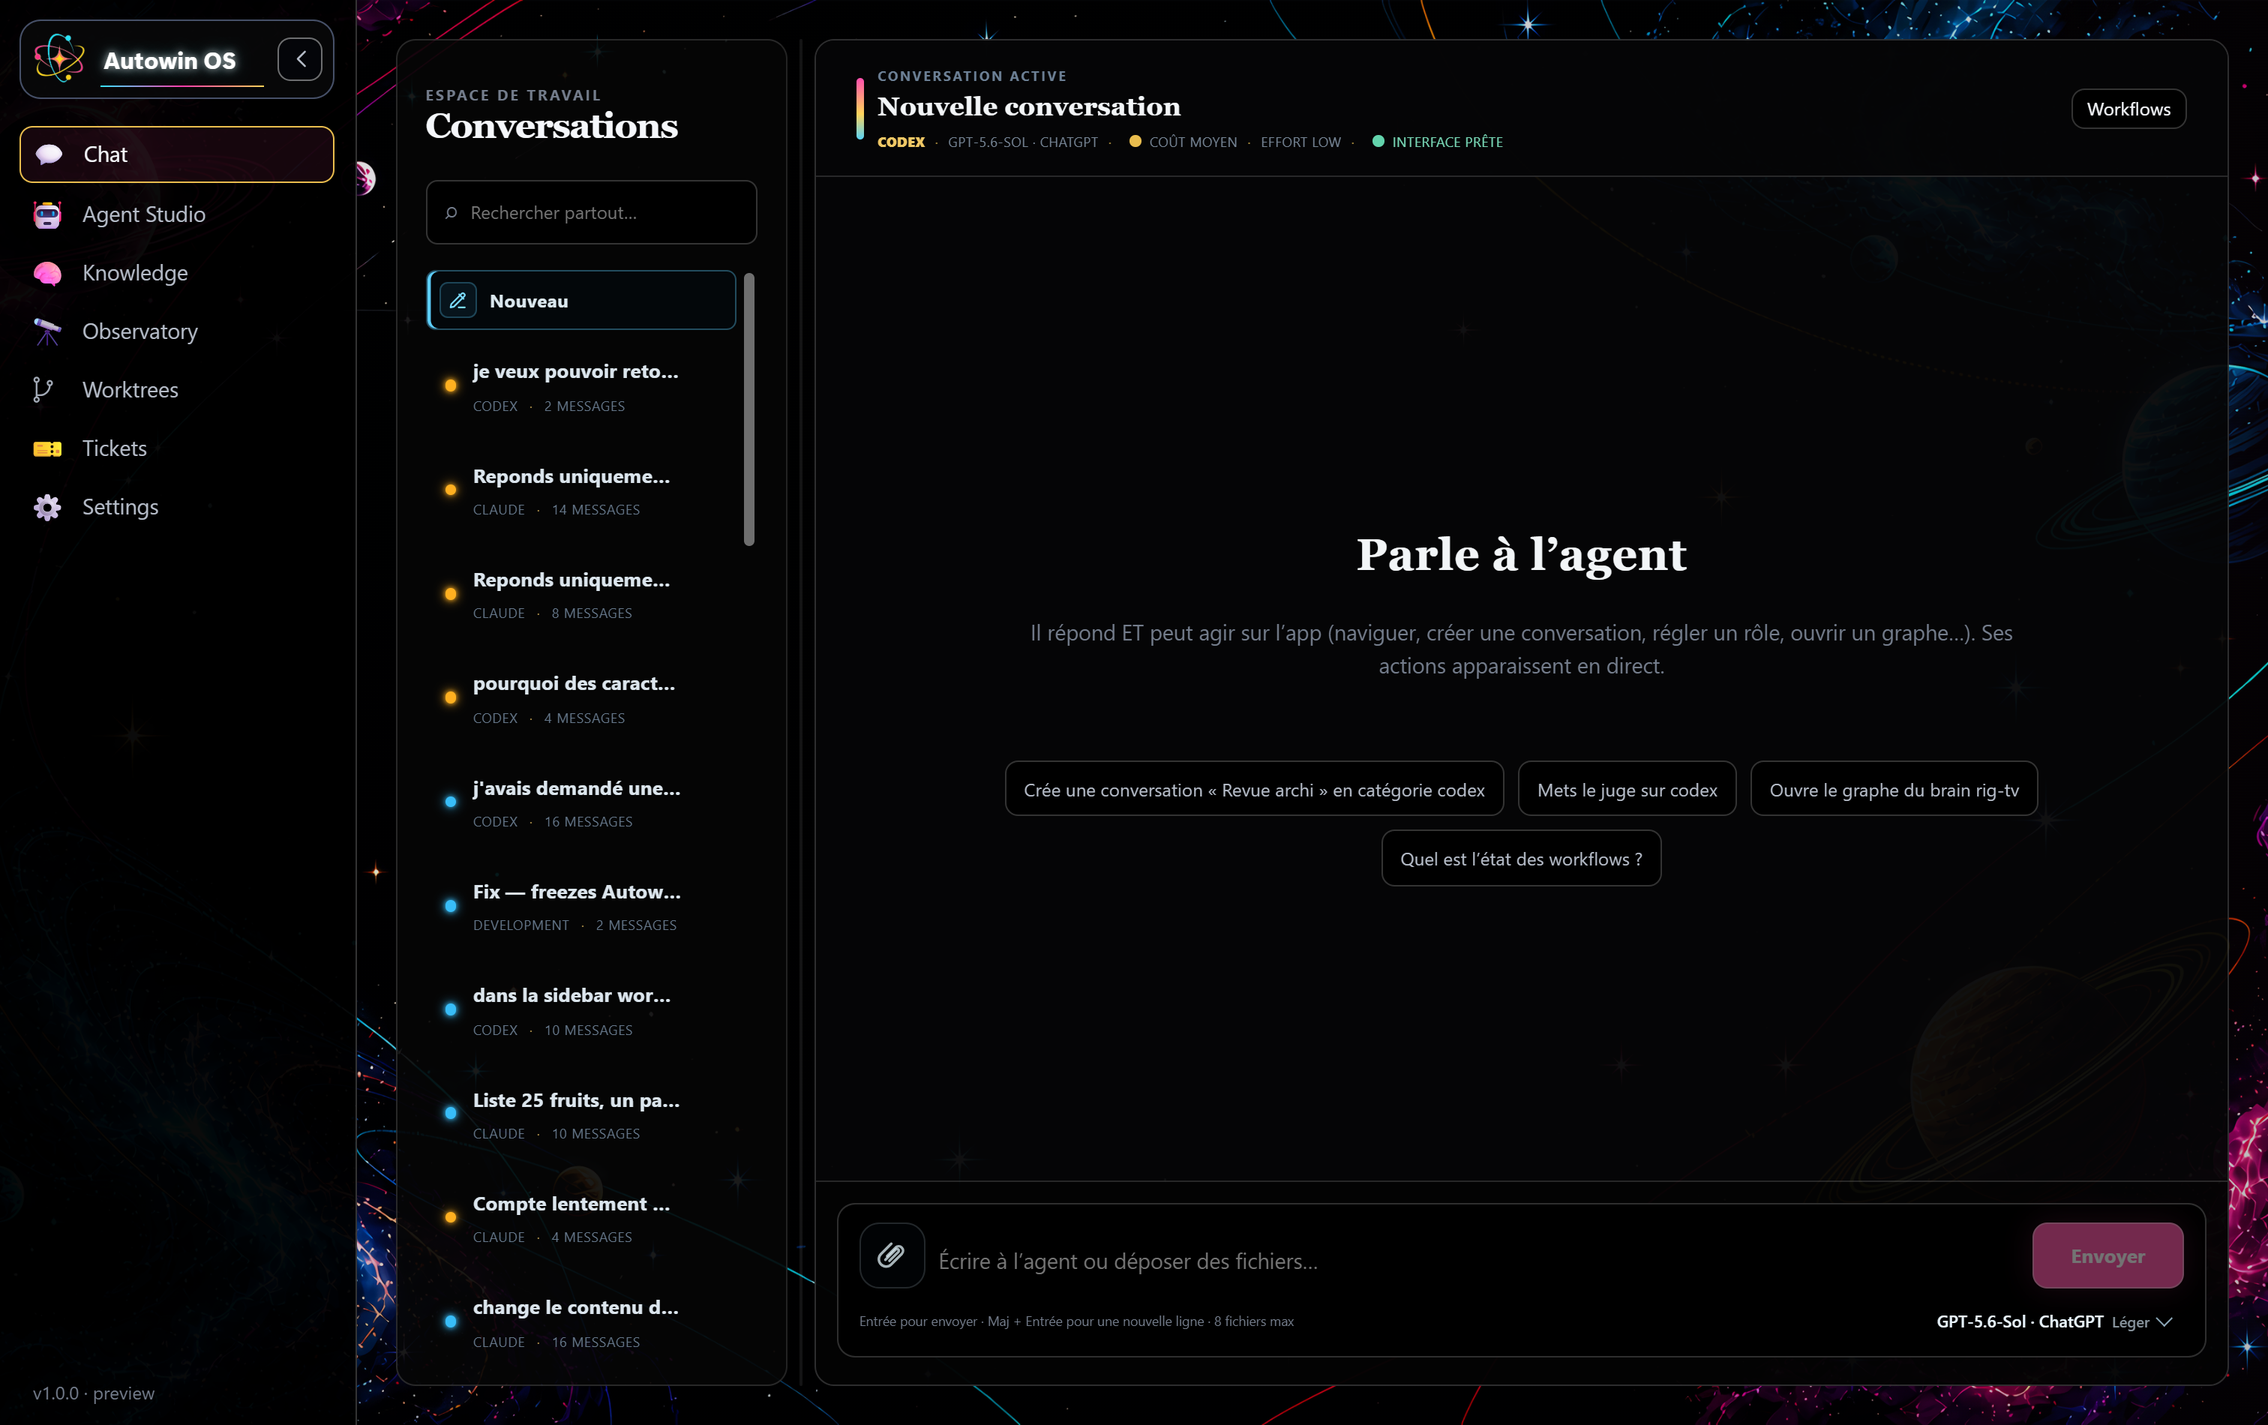
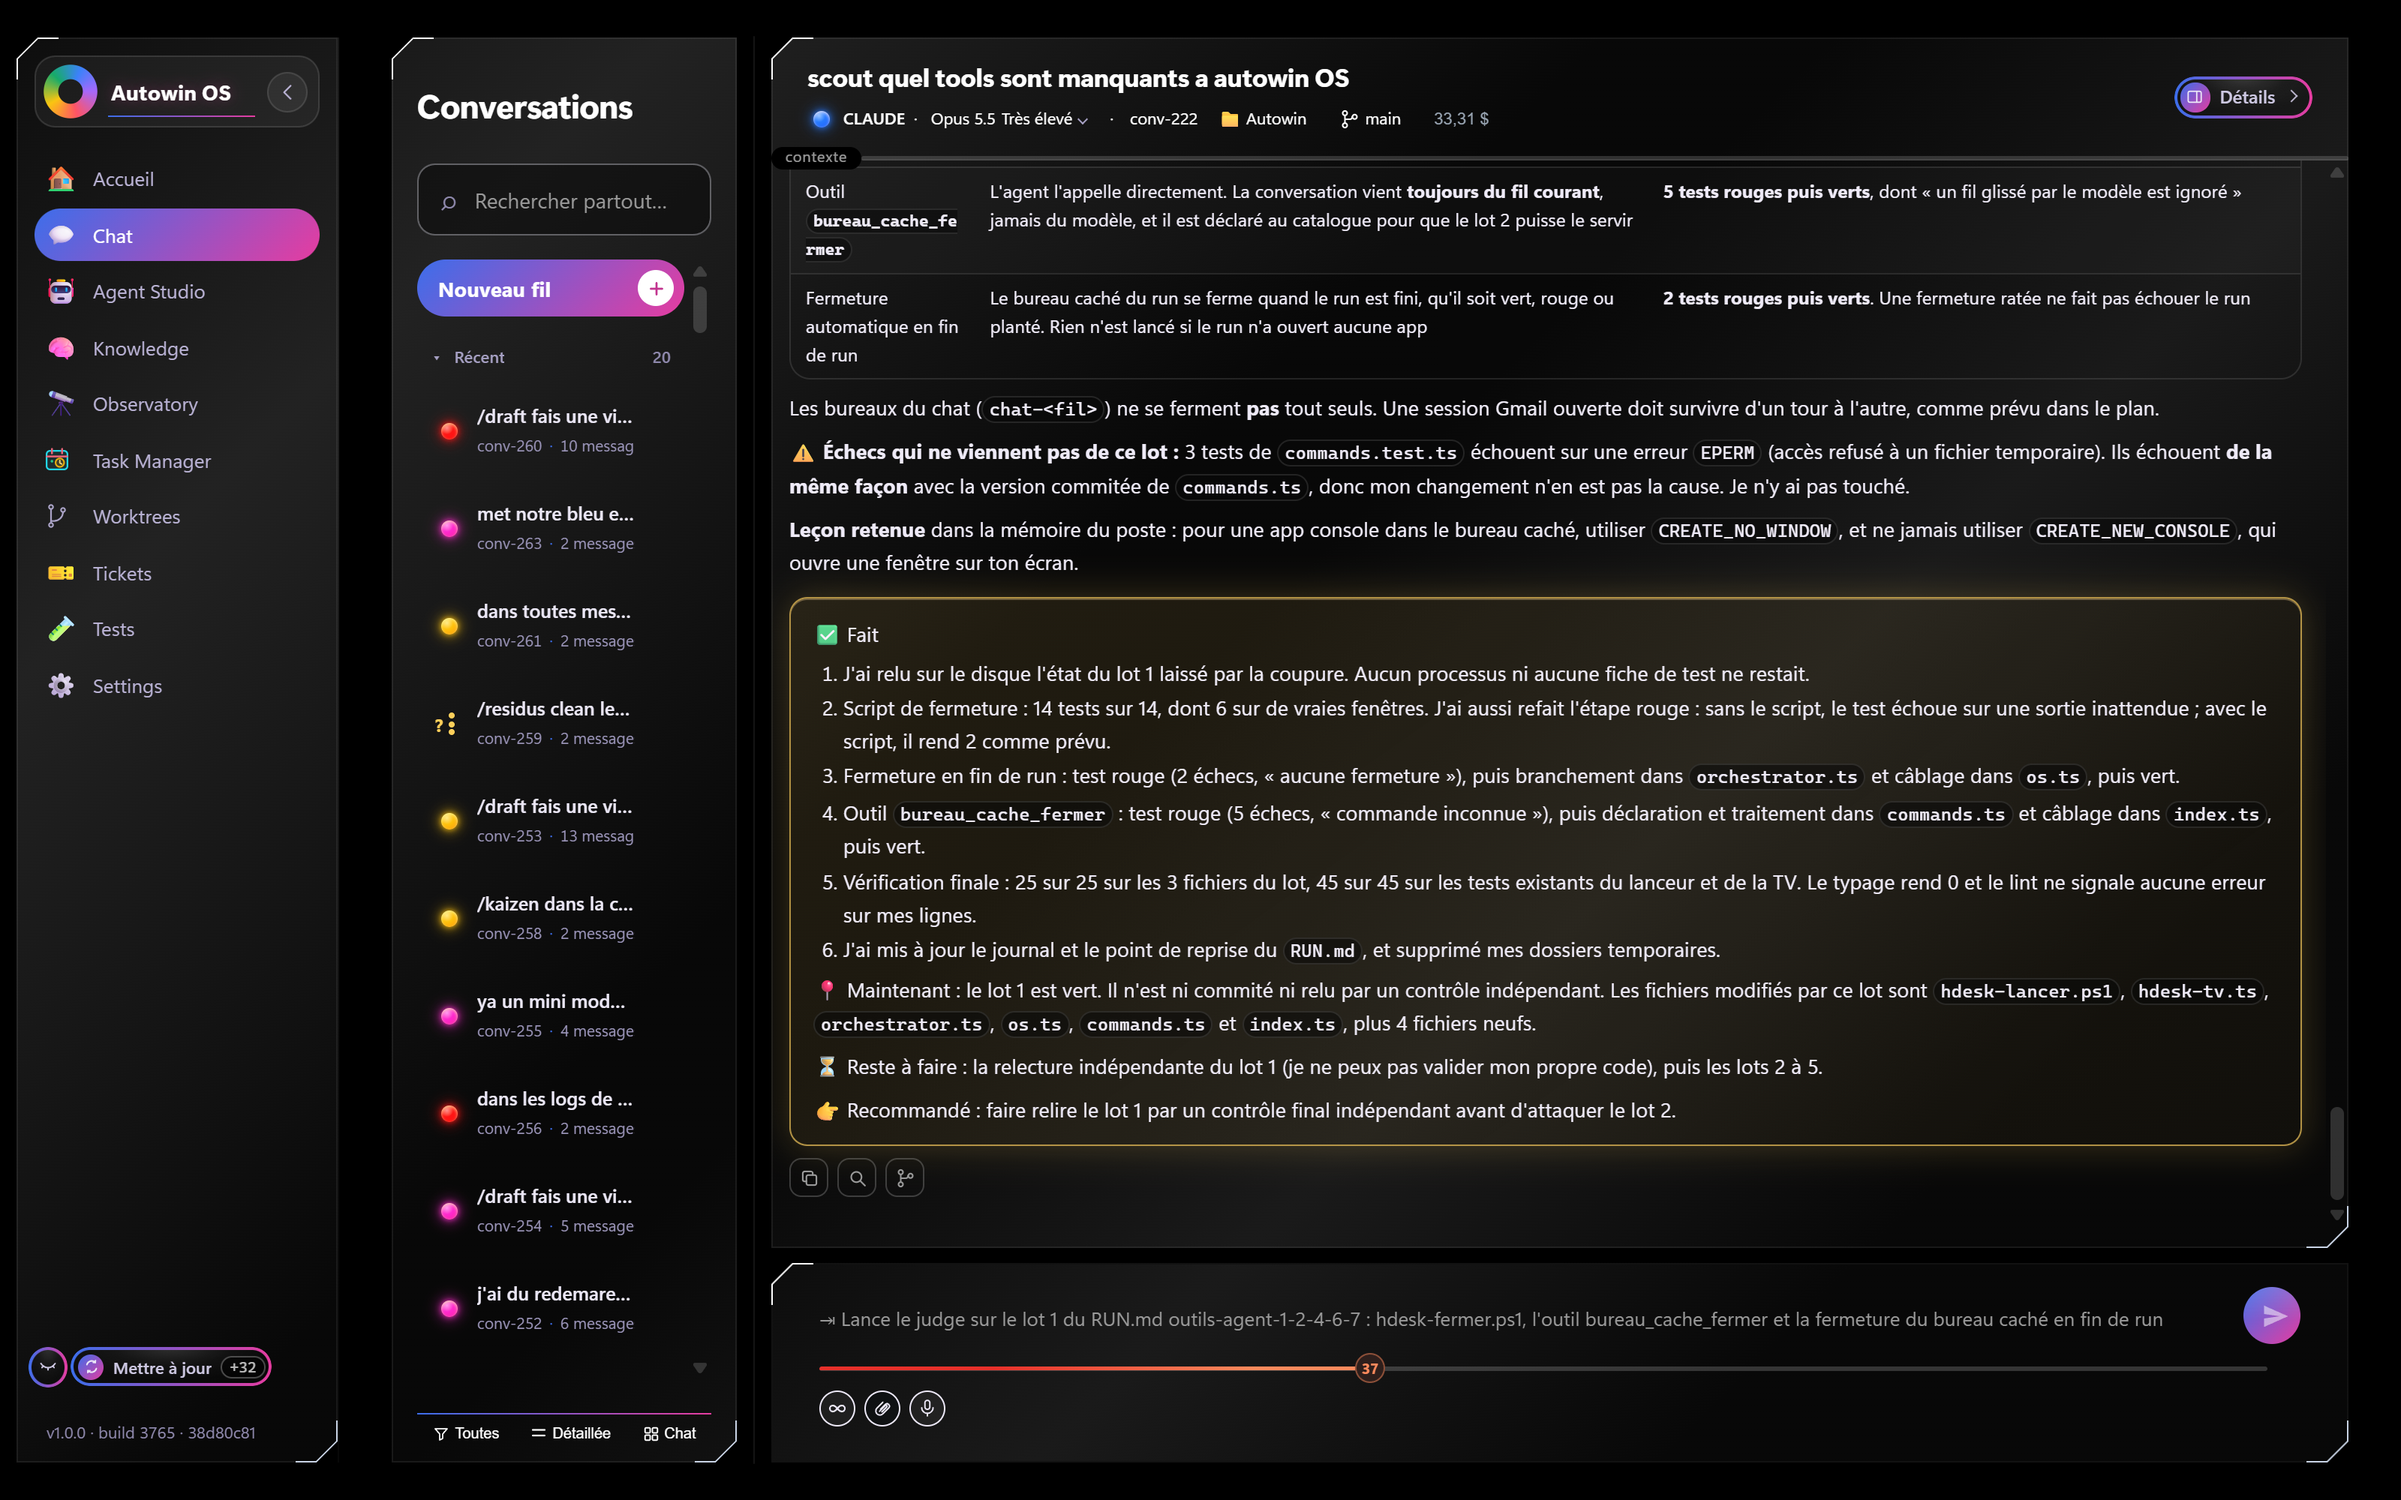
docs(readme): captures Chat, Observatory et Settings en thème Holographique
Les trois captures du README dataient du 25/09 (thème galaxie). Refaites le
12/10 en thème Holographique (nebuleuse-verre, défaut depuis conv-269), sur le
code en cours dans une instance cachée (profil de démonstration copié, jamais
les données réelles), 1600x1000 à l'échelle 2. Légende Settings alignée sur
l'onglet affiché (Skills · Hooks · Gates · Mods · Tools).

diff --git a/README.md b/README.md
@@ -73,7 +73,7 @@ supprimable ; il n'est posé qu'une fois, à la création du fichier de profils.
 ### Observatory — traçabilité des conversations (sortant / réponse / thinking / échecs, coût par modèle)
 ![Vue Observatory d'Autowin OS](docs/screenshots/observatory.png)
 
-### Settings — capacités connectées (Skills · Hooks · Tools)
+### Settings — capacités connectées (Skills · Hooks · Gates · Mods · Tools)
 ![Vue Settings d'Autowin OS](docs/screenshots/settings.png)
 
 ## Fonctionnalités clés
